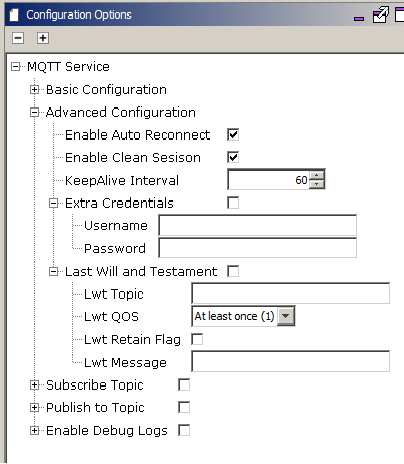
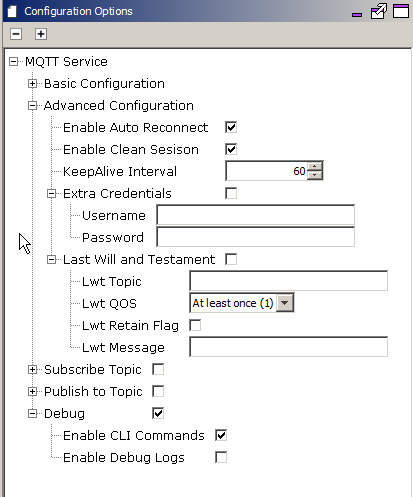
Made Changes in Docs for the new feature- Ethernet Support in Services

Changed region(s): [[0.0, 0.0, 1.0, 1.0]]

diff --git a/system/net/docs/configuration.md b/system/net/docs/configuration.md
@@ -17,14 +17,22 @@ The following figure shows the MHC configuration window for configuring the NET 
 3. Configure the various parameters
 ![](./images/Net_service_config.png)
 
-4. Configure the Ip Protocol as either TCP or UDP
+4. Configure the Supported Interface - 'Wifi Only', or 'Wifi and Ethernet Both'
+![](./images/Net_service_SuppIntf.png)
+
+5. User can configure 2 intsances of a Net Socket. By default, only the first one is enabled.
+
+6. Configure the Network Interface as Wifi or Ethernet. Note that Ethernet as an interface can only be chosen if the 'Supported Interaces' param is WIFI_ETHERNET.
+![](./images/Net_service_Inst0_Intf.png)
+
+7. Configure the Ip Protocol as either TCP or UDP
 ![](./images/Net_service_config_ipprot.png)
 
-5. Configure the Mode as either Client or Server
+8. Configure the Mode as either Client or Server
 ![](./images/Net_service_config_mode.png)
 
-6. Enable/ Disable "Auto Connect" as per your requirement. This parameter when enabled ensures that if the NET Connection disconnects, the service internally tries to reconnect. By Default, the parameter value is 'True'.
-7. Enable/ Disable "Enable TLS" in case the connection needs to be secured. Please note that in case this parameter is Enabled, the User needs to configure the WolfSSL related configuration on his own. Also, this parameter is valid only for TCP Connections. By Default, the parameter value is 'False'.<br>Note: In case the TLS is enabled, the User needs to update the component 'Presentation Layer' with the CA Certificate format, location, name, and size. Other parameters can be updated as per the User's requirements.
+9. Enable/ Disable "Auto Connect" as per your requirement. This parameter when enabled ensures that if the NET Connection disconnects, the service internally tries to reconnect. By Default, the parameter value is 'True'.
+10. Enable/ Disable "Enable TLS" in case the connection needs to be secured. Please note that in case this parameter is Enabled, the User needs to configure the WolfSSL related configuration on his own. Also, this parameter is valid only for TCP Connections. By Default, the parameter value is 'False'.<br>Note: In case the TLS is enabled, the User needs to update the component 'Presentation Layer' with the CA Certificate format, location, name, and size. Other parameters can be updated as per the User's requirements.
 
 - Configure the various parameters of Presentation Layer if TLS enabled
 {:refdef: style="text-align: center;"}
@@ -32,9 +40,10 @@ The following figure shows the MHC configuration window for configuring the NET 
 {: refdef}
 
 
-8. Server Port - 1-65535. This is a mandatory parameter.
-9. Host Name/ IP Address: Can be a Host Name or an IP Address. By Default, the parameter value is '192.168.1.1'.
-10. Enable Debug Logs in case more prints are required for debugging. By Default, the parameter value is 'False'.<br>Note: In case the user enables debug logs, user needs to manually add the 'App Debug Service' component from Wireless-> System Service-> App Debug Service.
+11. Server Port - 1-65535. This is a mandatory parameter.
+12. Host Name/ IP Address: Can be a Host Name or an IP Address. By Default, the parameter value is '192.168.1.1'.
+13. Enable CLI Commands - This is enabled by default. This can be used by the user to give commands on the CLI to open/ close/ send message on a socket.
+14. Enable Debug Logs in case more prints are required for debugging. By Default, the parameter value is 'False'.<br>Note: In case the user enables debug logs, user needs to manually add the 'App Debug Service' component from Wireless-> System Service-> App Debug Service.
 
 
 All of the required files are automatically added into the MPLAB X IDE project by the MHC when the Net Service is selected for use.

diff --git a/system/mqtt/docs/configuration.md b/system/mqtt/docs/configuration.md
@@ -27,7 +27,7 @@ The following figure shows the MHC configuration window for configuring the MQTT
 | Server Port |  | Port   number of the MQTT Broker at which the MQTT Client should connect |
 | Enable TLS | FALSE | If   TRUE, the MQTT connection should use TLS while connecting to the broker. If   FALSE, the MQTT connection should not use TLS.<br>Note: In case the TLS is enabled, the User needs to update the component 'Presentation Layer' with the CA Certificate format, location, name, and size. Other parameters can be updated as per the User's requirements. |
 | Client Id |  | MQTT   Client Id should be unique for the Broker. If left empty, the Id will be   generated randomly |
-
+| Network Interface |  | Network Interface - Wifi or Ethernet on which the MQTT Client should run |
 
 - Configure the various parameters of Presentation Layer if TLS enabled
 {:refdef: style="text-align: center;"}
@@ -57,6 +57,8 @@ The following figure shows the MHC configuration window for configuring the MQTT
 |-|-|-|
 | Subscription Topic | Disabled | Subscription configuration has 2 Parameters – <br>     1.	Topic and <br>     2.	Qos. (0 (Atmost Once), <br>                1 (Atleast Once),<br>                2 (Exactly Once))<br>     The User can configure these parameters to subscribe to a Topic to receive   messages. |
 | Publish to Topic | Disabled | Publishing a message to Topic has 3 Parameters –   <br>     1. Topic and <br>     2. Qos ( 0 (Atmost Once), 1 (Atleast Once), 2 (Exactly Once))<br>     3. Retain: If the Broker should retain the message<br>     The User can configure these parameters to and use them along with the   message to send it on a particular Topic. |
+| Enable CLI Commands | Enabled | Enabling this flag compiles in the CLI commands related to Mqtt Service. The user can use these CLI commands to connect/ disconnect, subscribe/ unsusbscribe, publish messages onto a topic.|
 | Enable Debug Logs | Disabled | Enabling this flag compiles in debug logs and user can enable them   at runtime. The user can use the following CLI commands to enable/ disable   levels and flows for the MQTT service:<br>     1.	sysmqtt debug level <value> <br>     2.	sysmqtt debug flow <value> <br>Note: In case the user enables debug logs, user needs to manually add the 'App Debug Service' component from Wireless-> System Service-> App Debug Service.|
+
 
 All of the required files are automatically added into the MPLAB X IDE project by the MHC when the MQTT Service is selected for use.
